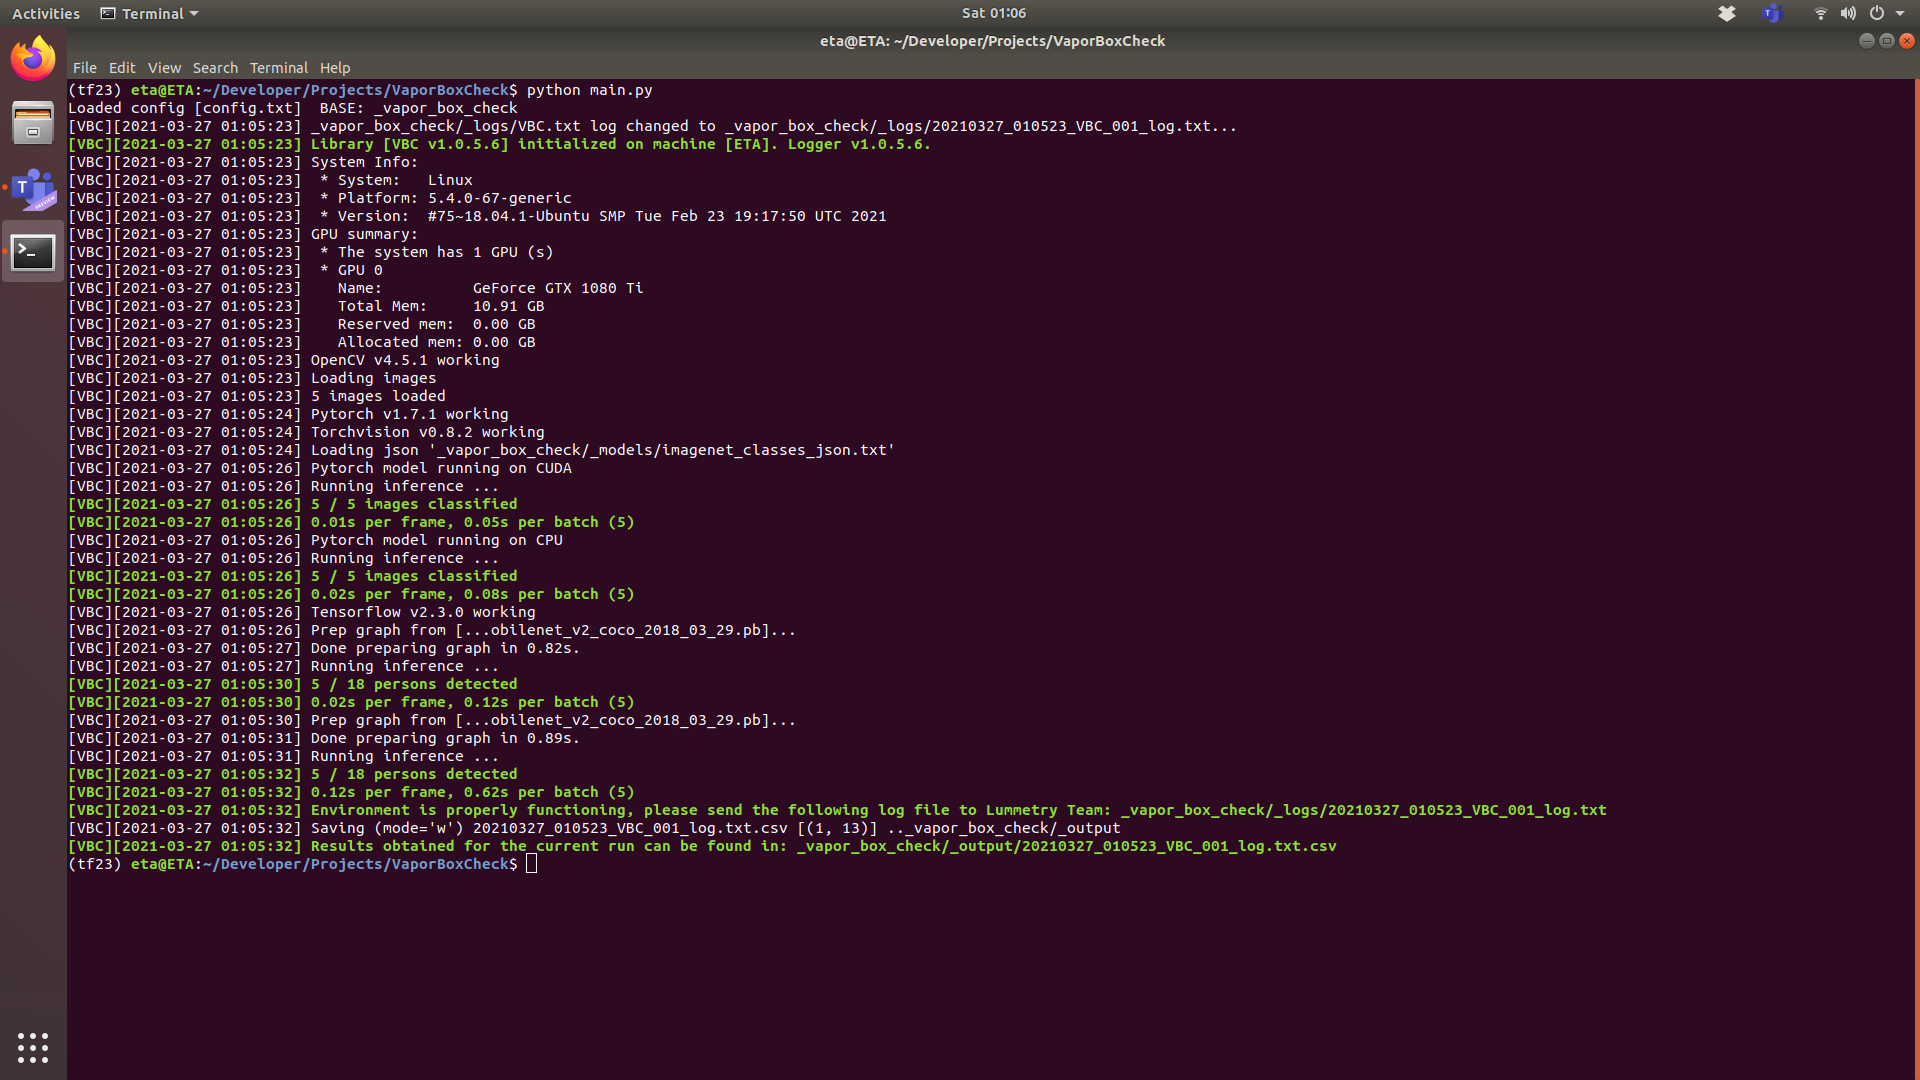
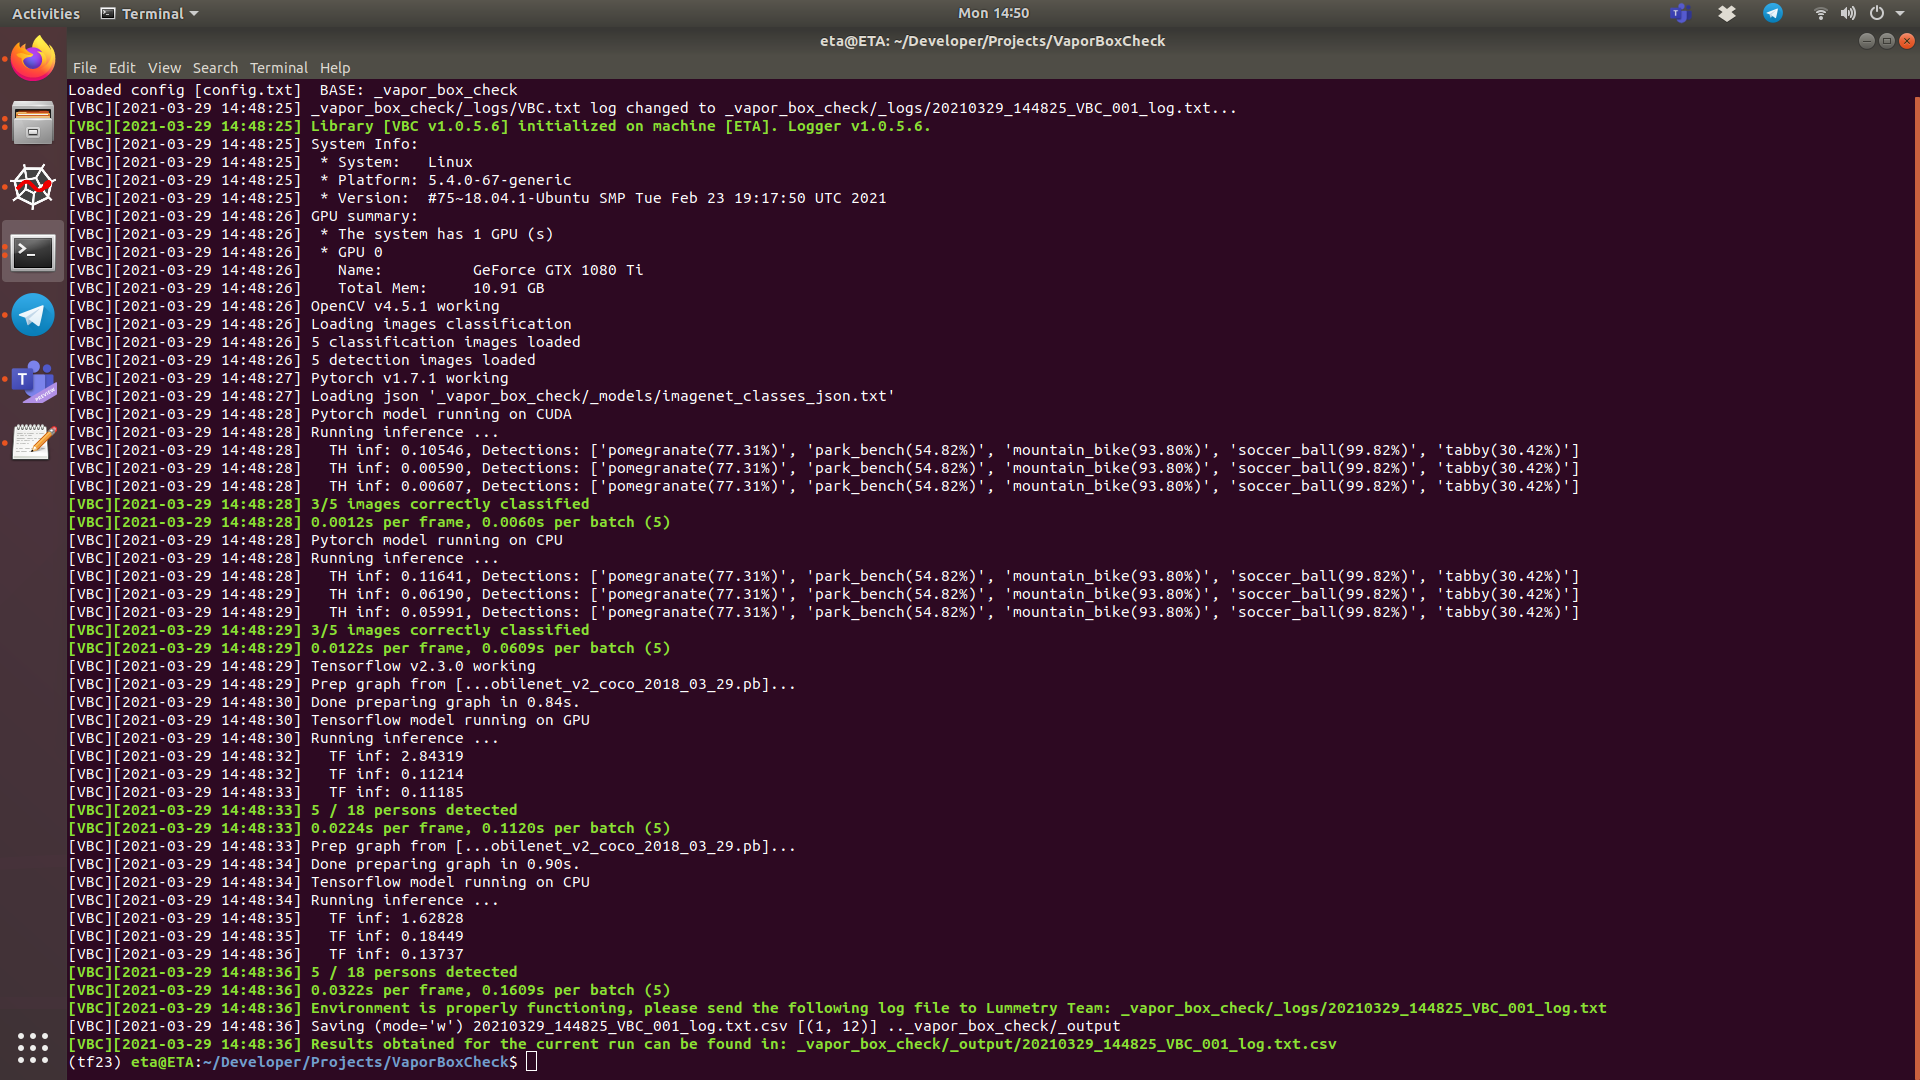
Updated test & tests results

diff --git a/app.py b/app.py
@@ -30,6 +30,8 @@ from libraries_pub import LummetryObject
 
 LBL_PERS = [ct.LBL_PERSON, ct.LBL_PERSOANA]
 
+CLF_OBJECTS = ['apple', 'chair', 'mountain_bike', 'soccer_ball', 'tabby']
+
 NR_PERS = {
   '1.png'   : 3,
   '207.png' : 4,
@@ -37,7 +39,7 @@ NR_PERS = {
   '646.png' : 4,
   '748.png' : 4
   }
-NR_RUN_INF = 10
+NR_RUN_INF = 3
 
 __VER__ = '1.0.2'
 
@@ -80,20 +82,35 @@ class VaporBoxCheck(LummetryObject):
     return
   
   def _load_images(self):
+    def _load(path_images):
+      lst_names = list(sorted(os.listdir(path_images)))
+      lst_paths = [os.path.join(path_images, x) for x in lst_names]
+      lst_imgs = [cv2.imread(x) for x in lst_paths]
+      return lst_names, lst_imgs
+    #enddef
+    
     try:
       import cv2
       if self.DEBUG:
-        self.log.p('Loading images')
+        self.log.p('Loading images classification')
       path_images = os.path.join(
         self.log.get_data_folder(), 
-        self.config_data[ct.PATH_IMAGES]
+        self.config_data[ct.PATH_IMAGES_CLASSIFICATION]
         )
-      lst_names = os.listdir(path_images)
-      lst_paths = [os.path.join(path_images, x) for x in lst_names]
-      lst_imgs = [cv2.imread(x) for x in lst_paths]
-      self.dct_imgs = dict(zip(lst_names, lst_imgs))
+      lst_names, lst_imgs = _load(path_images)
+      self.dct_imgs_classification = dict(zip(lst_names, lst_imgs))
+      
+      
+      path_images = os.path.join(
+        self.log.get_data_folder(), 
+        self.config_data[ct.PATH_IMAGES_DETECTION]
+        )
+      lst_names, lst_imgs = _load(path_images)
+      self.dct_imgs_detection = dict(zip(lst_names, lst_imgs))
+      
       if self.DEBUG:
-        self.log.p('{} images loaded'.format(len(self.dct_imgs)))
+        self.log.p('{} classification images loaded'.format(len(self.dct_imgs_classification)))
+        self.log.p('{} detection images loaded'.format(len(self.dct_imgs_detection)))
     except:
       self.log.p('Images could not be loaded', 'r')
     return
@@ -107,26 +124,36 @@ class VaporBoxCheck(LummetryObject):
       self.log.p('Pytorch model running on {}'.format(device.type.upper()))
       
       #infer
-      lst_imgs = list(self.dct_imgs.values())
+      lst_imgs = list(self.dct_imgs_classification.values())
       self.log.p('Running inference ...')
       for i in range(NR_RUN_INF):
         dct_inf = th_graph.predict(lst_imgs)
       
       #check results
       lst_inf = dct_inf[ct.INFERENCES]
-      lst_inf = list(itertools.chain.from_iterable(lst_inf))
+      lst_classes = [x['TYPE'] for x in lst_inf]
+      lst = list(zip(lst_classes, CLF_OBJECTS))
+      s = ''
+      for i,x in enumerate(lst):
+        s+= '{}/{}'.format(x[0], x[1])
+        if i < len(lst) - 1:
+          s+= ', '
+      # self.log.p('Classification results: {}'.format(s))
+      
+      nr_missed = len(set(CLF_OBJECTS) - set(lst_classes))
+      nr_identified = len(CLF_OBJECTS) - nr_missed
       self.log.p(
-        str_msg='{} / {} images classified'.format(len(self.dct_imgs), len(self.dct_imgs)),
+        str_msg='{}/{} images correctly classified'.format(nr_identified, len(self.dct_imgs_classification)),
         color='g'
         )
             
       total_time = self.log.get_timing(timer_name)
-      time_per_frame = total_time / len(self.dct_imgs)
+      time_per_frame = total_time / len(self.dct_imgs_classification)
       self.log.p(
         '{:.4f}s per frame, {:.4f}s per batch ({})'.format(
           time_per_frame,
           total_time,
-          len(self.dct_imgs)
+          len(self.dct_imgs_classification)
         ),
         color='g'
         )
@@ -186,7 +213,7 @@ class VaporBoxCheck(LummetryObject):
       self.log.reset_timer(timer_name)
       
       #infer
-      lst_imgs = list(self.dct_imgs.values())
+      lst_imgs = list(self.dct_imgs_detection.values())
       self.log.p('Running inference ...')
       for i in range(NR_RUN_INF):
         dct_inf = tf_graph.predict(lst_imgs)
@@ -203,12 +230,12 @@ class VaporBoxCheck(LummetryObject):
         )
       
       total_time = self.log.get_timing(timer_name)
-      time_per_frame = total_time / len(self.dct_imgs)
+      time_per_frame = total_time / len(self.dct_imgs_detection)
       self.log.p(
         str_msg='{:.4f}s per frame, {:.4f}s per batch ({})'.format(
           time_per_frame,
           total_time,
-          len(self.dct_imgs)
+          len(self.dct_imgs_detection)
           ),
         color='g'
         )
@@ -243,6 +270,7 @@ class VaporBoxCheck(LummetryObject):
         config_graph=self._cfg_inf[ct.TENSORFLOW],
         on_gpu=True
         )
+        self.log.p('Tensorflow model running on GPU')
         total_time = _predict()
         self._results['TF_GPU_TIME'].append(total_time)
       else:
@@ -254,6 +282,7 @@ class VaporBoxCheck(LummetryObject):
         config_graph=self._cfg_inf[ct.TENSORFLOW],
         on_gpu=False
         )
+      self.log.p('Tensorflow model running on CPU')
       total_time = _predict()
       self._results['TF_CPU_TIME'].append(total_time)
       

diff --git a/inference.py b/inference.py
@@ -30,6 +30,11 @@ try:
 except:
   pass
 
+try:
+  import cv2
+except:
+  pass
+
 import os
 import numpy as np
 import constants as ct
@@ -54,6 +59,7 @@ class PytorchGraph(LummetryObject):
     self.config_graph = config_graph
     self.IS_CUDA_AVAILABLE = th.cuda.is_available()
     self.DEVICE = th.device(ct.CUDA0 if self.IS_CUDA_AVAILABLE else ct.CPU)
+    self.last_run = 0
     super().__init__(**kwargs)
     return
   
@@ -88,13 +94,13 @@ class PytorchGraph(LummetryObject):
     model = mobilenet_v2(pretrained=False)
     model.load_state_dict(th.load(path))
     model.to(self.DEVICE)
-    
+    model.eval()
     
     self.model = model
 
     if self.DEBUG:    
       self.log.p('Setting model to {} and eval mode.'.format(self.DEVICE))
-    self.model.to(self.DEVICE).eval()
+    
     if self.DEBUG:
       self.log.p('Model on CUDA {}. Mode : {}'.format(
       next(self.model.parameters()).is_cuda, not self.model.training)
@@ -105,10 +111,10 @@ class PytorchGraph(LummetryObject):
   def _postprocess_inference(self, preds):
     if isinstance(preds, list):
       preds = preds[0]
-    np_preds = preds.argmax(axis=-1)
-    np_probs = np.take(preds, np_preds)
+    np_argmax = preds.argmax(axis=-1)
+    np_probs = preds.max(axis=-1)
     np_probs = np.around(np_probs * 100, decimals=2)
-    lst_preds = list(zip(np_preds, np_probs))
+    lst_preds = list(zip(np_argmax, np_probs))
     lst_out = []
     for idx, proba in lst_preds:
       lbl = idx if not hasattr(self, 'classes') else self.classes[idx]
@@ -117,7 +123,7 @@ class PytorchGraph(LummetryObject):
           lst_out.append({ 'PROB_PRC': proba, 'TYPE': lbl })
       else:
         lst_out.append({ 'PROB_PRC': proba, 'TYPE': lbl })
-      #end frame iter      
+      #end frame iter    
     return lst_out
   
   def _predict(self, images):
@@ -135,26 +141,23 @@ class PytorchGraph(LummetryObject):
         raise ValueError('Tensor not properly processed!')
       #endif
       
-      preds = self.model(th_x).cpu().numpy()
-    total_time = self.log.stop_timer(timer_name)
-    self.log.p('  TH inf: {}'.format(total_time))
-    return preds
+      th_preds = self.model(th_x)
+      th_probs = th.nn.functional.softmax(th_preds, dim=-1)
+      probs = th_probs.cpu().numpy()            
+    self.last_run = self.log.stop_timer(timer_name)
+    return probs
   
   def _preprocess_images(self, images):
     timer_name = self._timer_name(name=ct.TIMER_PREPROCESS_IMAGES)
     self.log.start_timer(timer_name)
-    transform = transforms.Compose([
-      transforms.Lambda(lambda x: x[:,:,::-1]),
-      transforms.ToPILImage(),
-      transforms.Resize(256),
-      transforms.CenterCrop(224),
-      transforms.ToTensor(),
-      transforms.Normalize(mean=[0.485, 0.456, 0.406], std=[0.229, 0.224, 0.225]),
-    ])
     lst = []
-    for image in images:
-      th_i = transform(image)
-      th_i = th_i.unsqueeze(0)
+    for img in images:
+      img = self.log.center_bgr_image(img, 224, 224)
+      img_rgb = img[:,:,::-1]
+      img_rgb = img_rgb / 255
+      img_rgb = (img_rgb - [0.485, 0.456, 0.406]) / [0.229, 0.224, 0.225]
+      img_rgb = np.transpose(img_rgb, [2, 0, 1])
+      th_i = th.tensor(img_rgb, dtype=th.float32).unsqueeze(0)
       lst.append(th_i)
     th_x = th.cat(lst, axis=0)
     self.log.stop_timer(timer_name)
@@ -186,6 +189,8 @@ class PytorchGraph(LummetryObject):
       result = self._run_inference(images)
     #endif
     
+    lst = ['{}({:.2f}%)'.format(x['TYPE'], x['PROB_PRC']) for x in result]
+    self.log.p('  TH inf: {:.5f}, Detections: {}'.format(self.last_run, lst))
     dct_meta['SYSTEM_TIME'] = timestamp
     dct_meta['VER'] = self.__version__
     dct_result['METADATA'] = dct_meta
@@ -281,7 +286,7 @@ class TensorflowGraph(LummetryObject):
       options=self.tf_runoptions
       )
     total_time = self.log.stop_timer(timer_name)
-    self.log.p('  TF inf: {}'.format(total_time))    
+    self.log.p('  TF inf: {:.5f}'.format(total_time))    
     return out_scores, out_boxes, out_classes
   
   def _postprocess_boxes(self, boxes, idx_image=0):

diff --git a/constants.py b/constants.py
@@ -7,7 +7,8 @@ CPU = 'cpu'
 CUDA0 = 'cuda:0'
 GRAPH = 'GRAPH'
 INFERENCES = 'INFERENCES'
-PATH_IMAGES = 'PATH_IMAGES'
+PATH_IMAGES_CLASSIFICATION = 'PATH_IMAGES_CLASSIFICATION'
+PATH_IMAGES_DETECTION = 'PATH_IMAGES_DETECTION'
 PYTORCH = 'PYTORCH'
 TENSORFLOW = 'TENSORFLOW'
 TYPE = 'TYPE'
